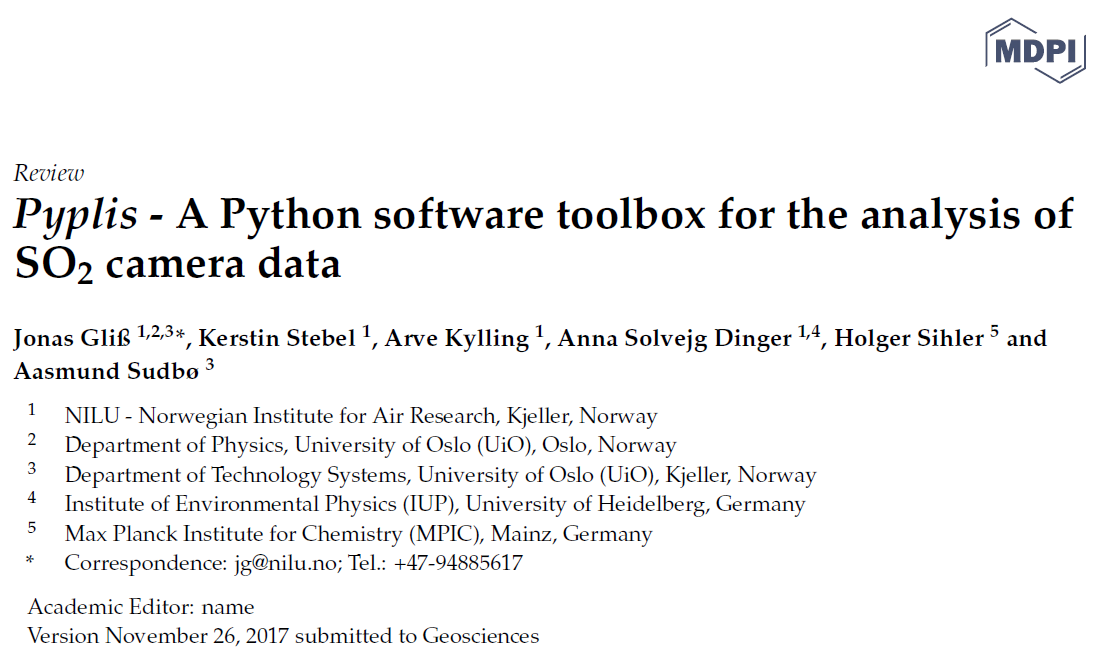
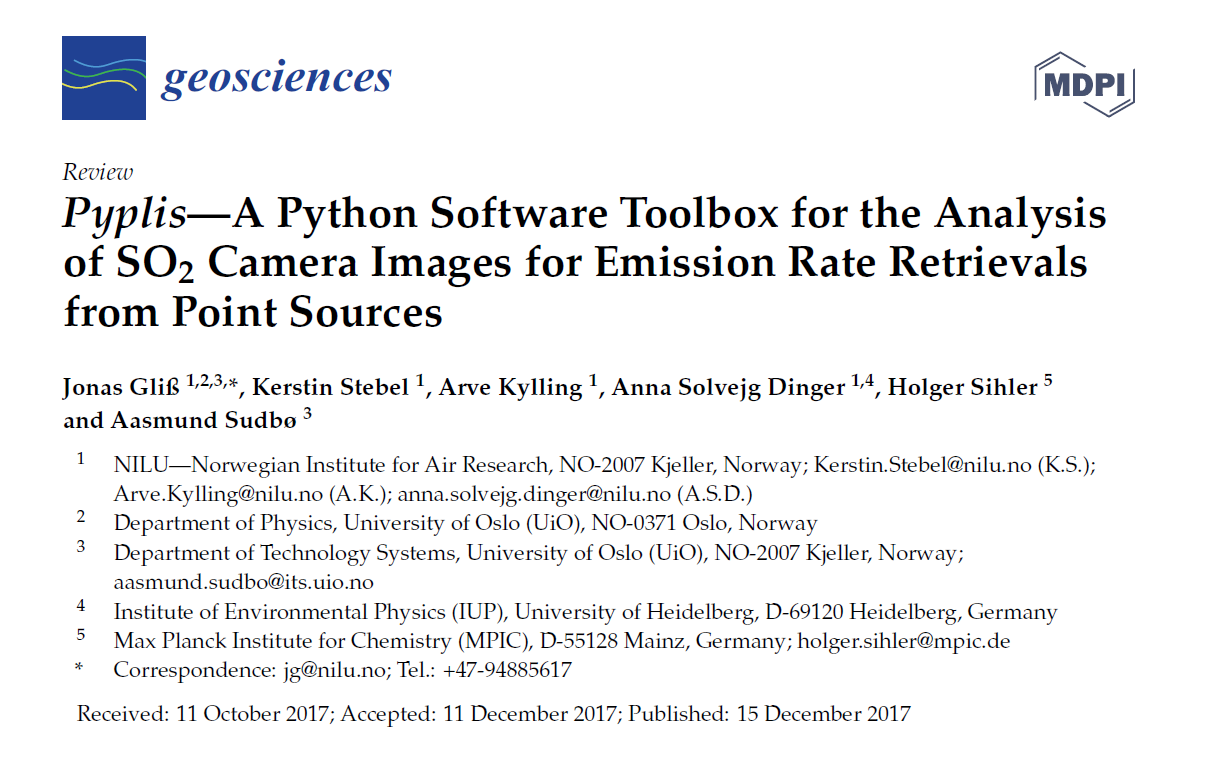
Minor changes in docs, updated paper status

diff --git a/pyplis/test/test_highlevel_examples.py b/pyplis/test/test_highlevel_examples.py
@@ -110,7 +110,6 @@ if exists(BASE_DIR):
     @pytest.fixture(scope="module")
     def plume_dataset():
         """Initiates measurement setup and creates dataset from that"""
-        
         stp = setup()
         stp.start = START_PLUME
         stp.stop = STOP_PLUME
@@ -121,15 +120,13 @@ if exists(BASE_DIR):
     @pytest.fixture
     def line(scope="module"):
         """Create an example retrieval line"""
-        return LineOnImage(108,71,125,44,pyrlevel_def=3, 
+        return LineOnImage(108, 71, 125, 44, pyrlevel_def=3, 
                            normal_orientation="left")
     
     def test_line():
         """Test some features from example retrieval line"""
         l = line()
-        
-        n1,n2 = l.normal_vector
-        
+        n1, n2 = l.normal_vector
         nominal = [32, 302.20, -0.84, -0.53]
         vals = [l.length(), l.normal_theta, n1, n2]
         assert_almost_equal(vals, nominal, 2)
@@ -142,7 +139,7 @@ if exists(BASE_DIR):
                             [res[0].mean(), res[1].mean(), res[2].mean()],
                             3)
     def test_optflow():
-        """Test optical flow module"""
+        """Test optical flow calculation"""
         flow = OptflowFarneback()
         flow.set_images(plume_img(), plume_img_next())
         flow.calc_flow()
@@ -162,10 +159,11 @@ if exists(BASE_DIR):
         return flow
         
     def test_auto_cellcalib():
+        """Test if automatic cell calibration works"""
         ds = calib_dataset()
         ds.find_and_assign_cells_all_filter_lists()
         keys = ["on", "off"]
-        nominal = [6, 844.03541, 353.96765]
+        nominal = [6, 844.03541, 353.96765, 3, 3]
         mean = 0
         bg_mean = ds.bg_lists["on"].this.mean() +\
                   ds.bg_lists["off"].this.mean()
@@ -174,11 +172,10 @@ if exists(BASE_DIR):
             for lst in ds.cell_lists[key].values():
                 mean += lst.this.mean()
                 num += 1
-        vals = [num, mean, bg_mean]
-        ds.plot_cell_search_result()
+        vals = [num, mean, bg_mean, len(ds.cell_lists["on"]),
+                len(ds.cell_lists["off"])]
         assert_almost_equal(nominal, vals, 5)
         
-    
     def test_bg_model():
         m = PlumeBackgroundModel()
         m.set_missing_ref_areas(plume_img())
@@ -196,9 +193,8 @@ if __name__=="__main__":
     flow = test_optflow()
     l=line()
     
-    dsc = calib_dataset()
-    dsc.find_and_assign_cells_all_filter_lists()
-    
+    ds = calib_dataset()
+    ds.find_and_assign_cells_all_filter_lists()
     #cell = calib_dataset()
 # =============================================================================
 #     cell.find_and_assign_cells_all_filter_lists()

diff --git a/pyplis/plumespeed.py b/pyplis/plumespeed.py
@@ -2783,7 +2783,7 @@ class OptflowFarneback(object):
             it will be set automatically in the corresponding methods
             :func:`fit_length_histo` and :func:`fit_orientation_histo`.
         min_count_frac : :obj:`float`, optional
-            determins the minimum required number of significant vectors in 
+            determines the minimum required number of significant vectors in 
             current ROI for histogram analysis (i.e. if ROI is NxM pixels and
             ``min_count_frac=0.1``, then at least (MxN)*0.1 pixels need to 
             remain after applying ``cond_mask_flat`` and exclusion of vectors
@@ -3278,14 +3278,25 @@ class OptflowFarneback(object):
         #create and flatten a meshgrid 
         y, x = mgrid[step / 2: h : step, step / 2: w : step].reshape(2, -1)
         fx, fy = flow[y, x].T
-        fx, fy = fx*extend_len_fac, fy*extend_len_fac
         
         if not include_short_vecs and len_thresh > 0:
             #use only those flow vectors longer than the defined threshold
             cond = sqrt(fx**2 + fy**2) > len_thresh
-            x, y, fx, fy = x[cond], y[cond], fx[cond], fy[cond]
+            x, y, fx, fy = (x[cond], 
+                            y[cond], 
+                            fx[cond],
+                            fy[cond])
+            
+        fx, fy = fx*extend_len_fac, fy*extend_len_fac
+            
         # create line endpoints
-        lines = int32(vstack([x, y,x + fx, y + fy]).T.reshape(-1,2,2))
+        try:
+            lines = int32(vstack([x, y,x + fx, y + fy]).T.reshape(-1,2,2))
+        except:
+            val=sqrt(fx**2 + fy**2).max()
+            raise ValueError("No flow vectors longer than %.2f were "
+                             "detected, longest flow vector: %.2f"
+                             %(len_thresh, val))
         return lines
     
     def plot(self, **kwargs):

diff --git a/pyplis/fluxcalc.py b/pyplis/fluxcalc.py
@@ -873,7 +873,7 @@ class EmissionRateRatio(EmissionRates):
                                                  ymin, ymax, alpha_err,
                                                  in_kg=False,
                                                  **kwargs)
-        ax.set_ylabel(r"$\Delta\Phi$")
+        ax.set_ylabel("")
         return ax
         
             
@@ -1087,7 +1087,8 @@ class EmissionRateAnalysis(object):
                 
                 self.settings.velo_flow_histo = True
         try:
-            lst.meas_geometry.compute_all_integration_step_lengths(pyrlevel=lst.pyrlevel)
+            lst.meas_geometry.compute_all_integration_step_lengths(pyrlevel=
+                                                                   lst.pyrlevel)
         except ValueError:
             raise ValueError("measurement geometry in image list is not ready"
                 "for pixel distance access")
@@ -1212,7 +1213,7 @@ class EmissionRateAnalysis(object):
         return self.run_retrieval(**kwargs)
     
     
-    def run_retrieval(self, start_index=0, stop_index=None, check_list=False):
+    def run_retrieval(self, start_index=0, stop_index=None, check_list=True):
         """Calculate emission rates of image list
         
         Performs emission rate analysis for each line in ``self.pcs_lines`` 

diff --git a/pyplis/optimisation.py b/pyplis/optimisation.py
@@ -1581,7 +1581,7 @@ class PolySurfaceFit(object):
         if self.auto_update:
             self.do_fit()
             
-    def exclude_pix_range_rect(self, x0,x1,y0,y1):
+    def exclude_pix_range_rect(self, x0, x1, y0, y1):
         """Add a rectangular pixel area which will be excluded from the fit
         :param int x0: start x coordinate (original image resolution)
         :param int x1: stop x coordinate (original image resolution)
@@ -1592,7 +1592,7 @@ class PolySurfaceFit(object):
         if self.auto_update:
             self.do_fit()
             
-    def exclude_pix_range_circ(self, x0,y0,r):
+    def exclude_pix_range_circ(self, x0, y0, r):
         """Add a circular pixel area which will be excluded from the fit
         :param int x0: centre x coordinate (original image resolution)
         :param int y0: centre y coordinate (original image resolution)

diff --git a/pyplis/doascalib.py b/pyplis/doascalib.py
@@ -115,13 +115,15 @@ class DoasCalibData(object):
     def calib_id_str(self):
         """String for calibration ID"""
         idx=0
-        if self.calib_id.split("_")[1].lower() == "aa":
-            idx=1
         try:
-            return CALIB_ID_STRINGS[self.calib_id.split("_")[idx]]
+            if self.calib_id.split("_")[1].lower() == "aa":
+                idx=1
+            try:
+                return CALIB_ID_STRINGS[self.calib_id.split("_")[idx]]
+            except:
+                return self.calib_id.split("_")[idx]
         except:
-            return self.calib_id.split("_")[idx]
-    
+            return ""
     @property
     def poly(self):
         """Calibration polynomial"""

diff --git a/pyplis/imagelists.py b/pyplis/imagelists.py
@@ -3355,8 +3355,8 @@ class ImgList(BaseImgList):
             bg_on = self._bg_imgs[on.is_vigncorr].to_pyrlevel(on.pyrlevel)
             bg_off = off_list._bg_imgs[off.is_vigncorr].to_pyrlevel(off.pyrlevel)
         else:
-            bg_on = self.bg_list.this
-            bg_off = off_list.bg_list.this
+            bg_on = self.bg_list.this.to_pyrlevel(on.pyrlevel)
+            bg_off = off_list.bg_list.this.to_pyrlevel(off.pyrlevel)
         return self.bg_model.get_aa_image(on, off, bg_on, bg_off)
     
     """

diff --git a/pyplis/plumebackground.py b/pyplis/plumebackground.py
@@ -1374,7 +1374,7 @@ def find_sky_background(plume_img, next_img=None,
     ----
     1. This is a Beta version
     2. The method requires images in radiances space (i.e. plume and
-        terrain pixels appear darkes than the sky background).
+        terrain pixels appear darker than the sky background).
     3. The input plume image should not contain clouds. If it does, it is
         highly recommended to make use of the movement detection algorithm
     

diff --git a/scripts/SETTINGS.py b/scripts/SETTINGS.py
@@ -25,7 +25,7 @@ rcParams.update({'figure.autolayout': True})
 rcParams.update({'font.size': 13})
 
 # the pyplis version for which these scripts
-SCRIPTS_VERSION = "0.14"
+SCRIPTS_VERSION = "1.0"
 
 SAVEFIGS = 1 # save plots from this script in SAVE_DIR
 DPI = 150 #pixel resolution for saving

diff --git a/README.rst b/README.rst
@@ -5,11 +5,11 @@ Contact: Jonas Gliss (jonasgliss@gmail.com)
 Pyplis paper
 ============
 
-A paper discussing the main features of *Pyplis* and implementation details is in the process of being published in the special issue on `Volcanic plumes <http://www.mdpi.com/journal/geosciences/special_issues/volcanic_processes>`__ of the Journal *Geosciences* (MDPI). Click `here, to download a citable preprint of the paper <https://www.preprints.org/manuscript/201710.0085/v1>`__.
+The software *Pyplis* and implementation details was published in December 2017 within a special issue on `Volcanic plumes <http://www.mdpi.com/journal/geosciences/special_issues/volcanic_processes>`__ of the Journal *Geosciences* (MDPI). The paper can be downloaded `here <http://www.mdpi.com/2076-3263/7/4/134>`__.
 
 Citation
 --------
-If you find *Pyplis* useful for your data analysis, we would highly appreciate if you acknowledge our work by `citing the paper <https://www.preprints.org/manuscript/201710.0085/v1>`__.
+If you find *Pyplis* useful for your data analysis, we would highly appreciate if you acknowledge our work by citing the paper. Citing details can be found `here <http://www.mdpi.com/2076-3263/7/4/134>`__.
 
 Note
 ====
@@ -28,8 +28,8 @@ Main features
 - Plume velocity retrieval either using an optical flow analysis or using signal cross correlation.
 - Histogram based post analysis of optical flow field for gas velocity analysis in low contrast image regions, where the optical flow fails to detect motion.
 - Routine for image based correction of the signal dilution effect based on contrast variations of dark terrain features located at different distances in the images.
-- Support of standard image formats including `FITS format <https://de.wikipedia.org/wiki/Flexible_Image_Transport_System>`__
-- Easy and flexible setup for data import and camera specifications
+- Support of standard image formats including `FITS format <https://de.wikipedia.org/wiki/Flexible_Image_Transport_System>`__.
+- Easy and flexible setup for data import and camera specifications.
   
 Copyright
 =========

diff --git a/docs/index.rst b/docs/index.rst
@@ -11,9 +11,9 @@
 Welcome to Pyplis
 =================
 
-Official code documentation website of *Pyplis*. Apart from the API documentation, this website includes general information about the software (e.g. installation details, access of example data) as well as useful practical information that helps getting started with *Pyplis*. 
+Official website of *Pyplis*, a Python software containing algorithms and analysis routines for UV SO2 camera data. Apart from the API documentation, this website includes additional relevant information about the software (e.g. installation details, access of example data) as well as useful practical information that helps getting started with *Pyplis*. 
 
-A paper introducing the software is in the process of being published in the Journal *Geosciences* (MDPI) (currently under revision). If you find *Pyplis* useful for your work, we highly appreciate if you acknowlegde our work by citing the `paper <https://www.preprints.org/manuscript/201710.0085/v1>`__ (currently a preprint).
+A paper introducing the software is published in the Journal *Geosciences* (MDPI). If you find *Pyplis* useful for your analysis, we highly appreciate if you acknowlegde our work by citing the `paper <http://www.mdpi.com/2076-3263/7/4/134>`__.
 
 .. figure:: ./_graphics/preview_paper.png
     :scale: 80%
@@ -21,7 +21,7 @@ A paper introducing the software is in the process of being published in the Jou
     :alt: alternate text
     :figclass: align-center
     
-    Screenshot of the *Pyplis* `paper <https://www.preprints.org/manuscript/201710.0085/v1>`__. Please acknowledge our work by citing the paper. 
+    Screenshot of the *Pyplis* `paper <http://www.mdpi.com/2076-3263/7/4/134>`__. Please acknowledge our work by citing the paper. 
 
 The software can be downloded from the `Github page <https://github.com/jgliss/pyplis>`__ or installed via `PyPi <https://pypi.python.org/pypi/pyplis>`__ using::
 

diff --git a/VERSION.rst b/VERSION.rst
@@ -1,1 +1,1 @@
-1.0.1.dev1
+1.0.1.dev2
